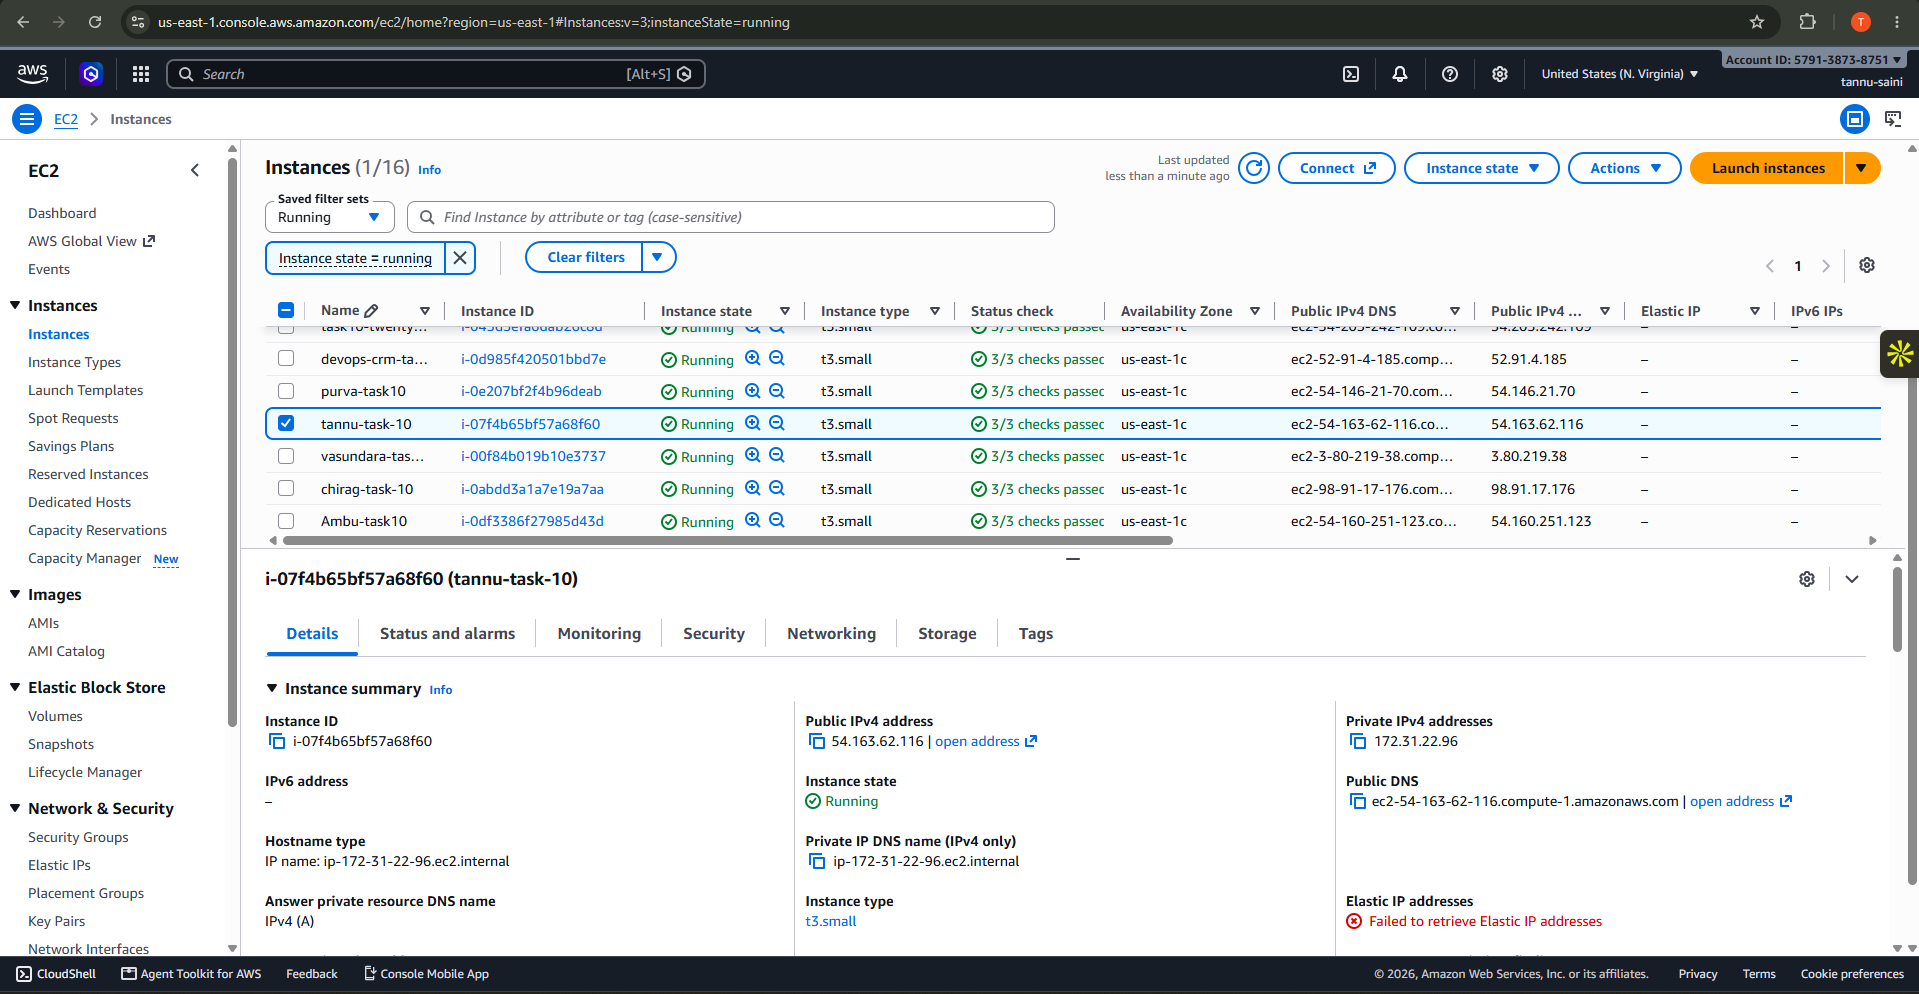
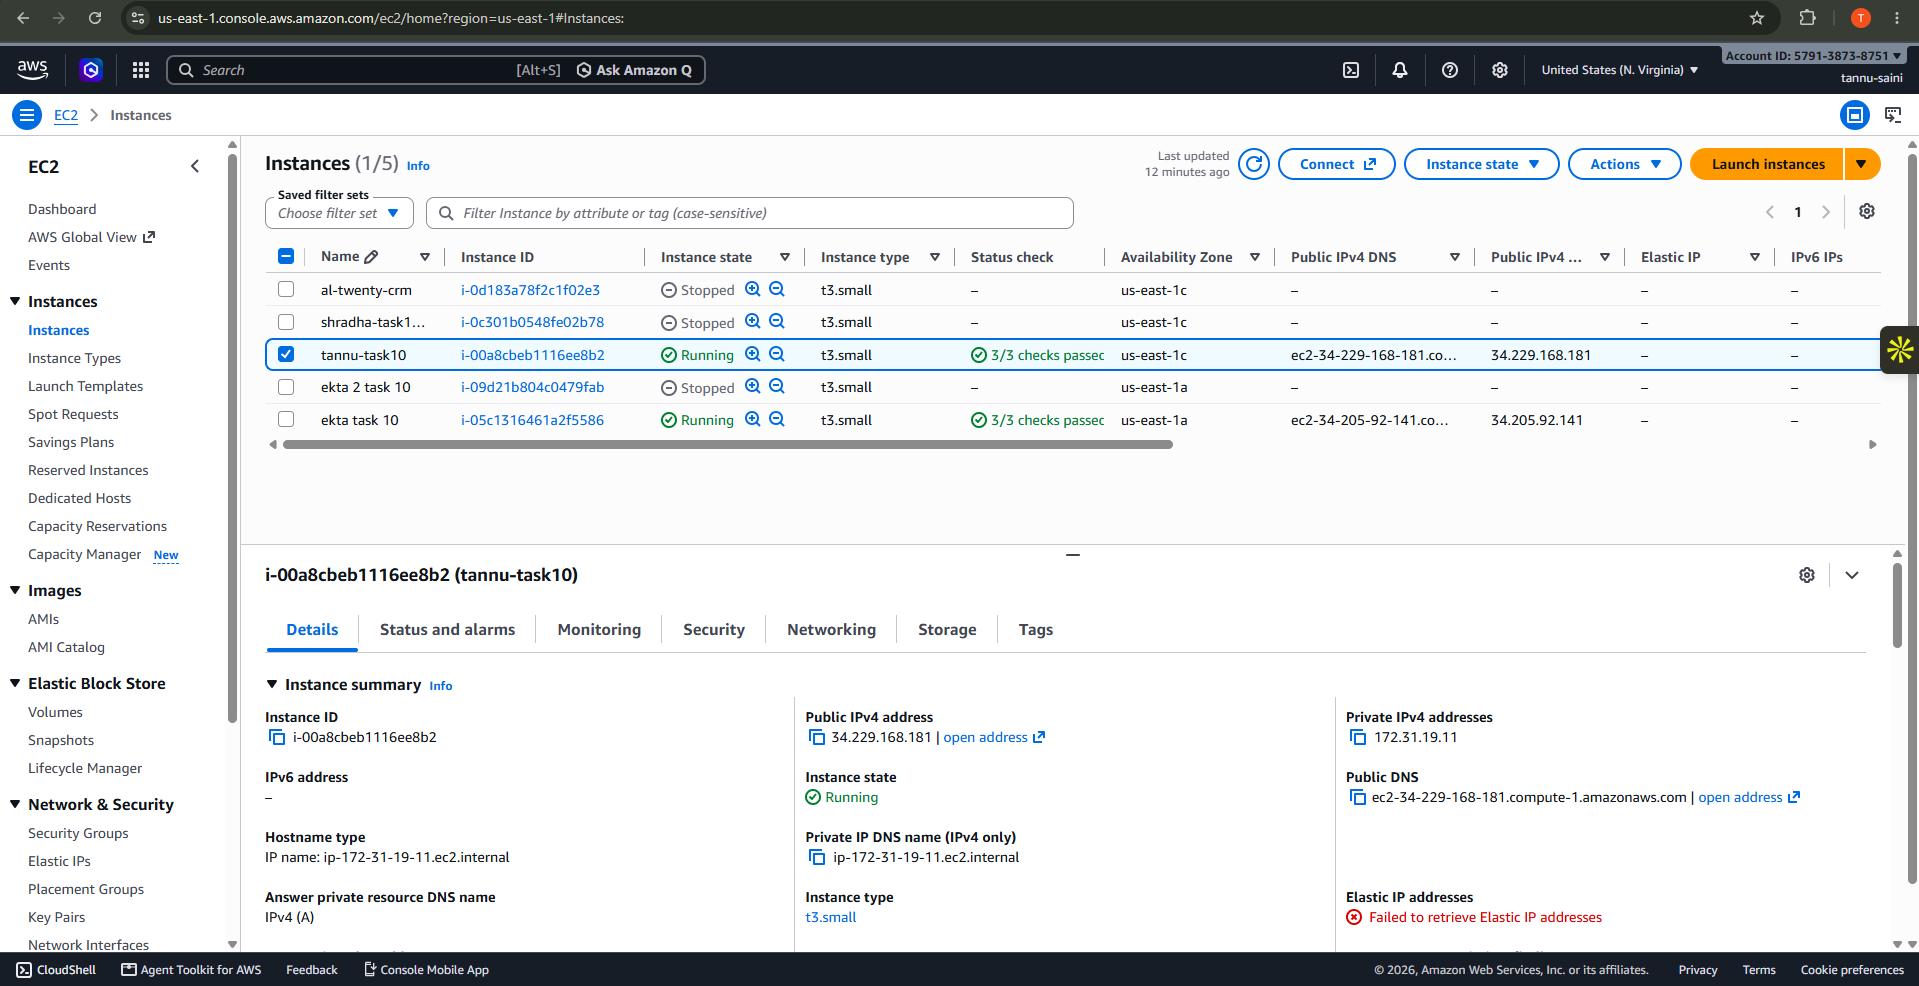
docs: complete Task 10 AWS observability

diff --git a/task-10-aws-observability.md b/task-10-aws-observability.md
@@ -4,62 +4,106 @@
 
 Implemented AWS observability for the Twenty CRM application running on an Amazon EC2 instance using Amazon CloudWatch.
 
+The setup includes EC2 monitoring, CloudWatch Agent configuration, CPU/memory/disk metrics, CloudWatch alarms, a personal dashboard, and live metric testing.
+
 ## 1. EC2 Instance Setup
 
-- Launched an Ubuntu EC2 instance in AWS.
-- Connected to the instance using SSH.
-- Instance type used: `t3.small`
-- AWS Region: `us-east-1 (N. Virginia)`
+* Launched an Ubuntu EC2 instance in AWS.
+* Instance type: `t3.small`
+* AWS Region: `us-east-1 (N. Virginia)`
+* Connected to the instance using SSH.
+* Instance ID: `i-00a8cbeb1116ee8b2`
+
+![EC2 instance running](screenshots/task-10-aws-observability/01-ec2-running.png)
+
+![SSH connection](screenshots/task-10-aws-observability/02-ssh-connected.png)
 
 ## 2. Twenty CRM Deployment
 
 Twenty CRM was deployed and run on the EC2 instance using Docker.
 
-The application was exposed on port `2020`.
+* Application port: `2020`
+* Docker was installed and configured.
+* Twenty CRM was successfully started and verified as healthy.
+* The application was accessed through the EC2 instance.
 
-The application was successfully started on the EC2 instance and verified locally using an HTTP 200 response.
+![Twenty CRM running](screenshots/task-10-aws-observability/03-twenty-crm-running.png)
 
-## 3. CloudWatch Agent
+## 3. CloudWatch Agent Installation and Configuration
 
-Installed and configured the Amazon CloudWatch Agent on the EC2 instance.
+The Amazon CloudWatch Agent was installed and configured on the EC2 instance.
 
-The agent was configured to collect:
+The agent was configured with:
 
-- CPU utilization
-- Memory utilization
-- Disk utilization
+* Metrics collection interval: 60 seconds
+* CPU monitoring
+* Memory monitoring
+* Disk monitoring
+* EC2 Instance ID as a metric dimension
 
-Metrics were configured with a 60-second collection interval.
+![CloudWatch Agent configuration](screenshots/task-10-aws-observability/04-cloudwatch-agent-file.png)
 
-## 4. CloudWatch Metrics Configuration
+![CloudWatch Agent running](screenshots/task-10-aws-observability/05-cloudwatch-agent-running.png)
 
-The CloudWatch Agent configuration included:
+## 4. CloudWatch Metrics
 
-- `cpu_usage_idle`
-- `cpu_usage_user`
-- `cpu_usage_system`
-- `cpu_usage_iowait`
-- `mem_used_percent`
-- Disk `used_percent`
+The CloudWatch Agent collects the following metrics:
 
-The disk metric was configured for the root filesystem `/`.
+### CPU
 
-## 5. CloudWatch Alarm
+* `cpu_usage_idle`
+* `cpu_usage_user`
+* `cpu_usage_system`
 
-Created the following CloudWatch alarm:
+### Memory
 
-`Tannu-Task10-CPU-High`
+* `mem_used_percent`
+
+### Disk
+
+* `used_percent`
+
+Disk monitoring was configured for the root filesystem `/`.
+
+The metrics were configured with a 60-second collection interval.
+
+## 5. CloudWatch Alarms
+
+Two CloudWatch alarms were created.
+
+### CPU Alarm
+
+Alarm name:
+
+`Tannu-Task10-High-CPU`
 
 Configuration:
 
-- Namespace: `AWS/EC2`
-- Metric: `CPUUtilization`
-- Statistic: Average
-- Period: 5 minutes
-- Threshold: CPU utilization greater than 70%
-- Evaluation: 1 datapoint within 5 minutes
+* Namespace: `AWS/EC2`
+* Metric: `CPUUtilization`
+* Statistic: Average
+* Period: 1 minute
+* Threshold: Greater than 70%
 
-The alarm was created without notification actions because the provided IAM user did not have permission to create/list SNS topics.
+![CloudWatch CPU alarm](screenshots/task-10-aws-observability/06-cloudwatch-high-cpu-alarm.png)
+
+### Memory Alarm
+
+Alarm name:
+
+`Tannu-Task10-High-Memory`
+
+Configuration:
+
+* Namespace: `CWAgent`
+* Metric: `mem_used_percent`
+* Statistic: Average
+* Period: 1 minute
+* Threshold: Greater than 80%
+
+![CloudWatch memory alarm](screenshots/task-10-aws-observability/07-cloudwatch-high-memory-alarm.png)
+
+The alarms were created without notification actions because SNS notification configuration was not required for this task.
 
 ## 6. CloudWatch Dashboard
 
@@ -67,59 +111,124 @@ Created a personal CloudWatch dashboard:
 
 `Tannu-Task10-Observability`
 
-A CPU utilization widget using the EC2 CPUUtilization metric was added and configured for the EC2 instance. After the instance was terminated, the dashboard no longer displayed live metric data.
+The dashboard contains three monitoring widgets:
 
-## 7. Testing
+* `CPUUtilization`
+* `mem_used_percent`
+* `disk_used_percent`
 
-The CloudWatch Agent was started successfully and its status showed:
+The widgets were configured for the EC2 instance and provide a single view of CPU, memory, and disk utilization.
 
-- Status: Running
-- Config status: Configured
+![CloudWatch dashboard](screenshots/task-10-aws-observability/08-cloudwatch-dashboard.png)
 
-The Twenty CRM container was also successfully started during the implementation.
+## 7. Live Metric Testing
 
-## 8. Issues Faced
+Live metric testing was performed after configuring the CloudWatch monitoring setup.
 
-### Redis connection issue
+Twenty CRM activity was generated on the running application.
 
-During Twenty CRM startup, Redis connection/session-store errors were observed.
+A temporary CPU load was also generated on the EC2 instance using two background `yes` processes:
 
-Redis was started and verified locally, after which the Twenty CRM application successfully started.
+```bash
+yes > /dev/null & P1=$!
+yes > /dev/null & P2=$!
+```
 
-### Disk space issue
+The CPU load was then stopped using:
 
-The EC2 instance had limited disk space and the root filesystem reached very high utilization.
+```bash
+kill $P1 $P2
+```
 
-The issue was handled by cleaning package cache, pruning unused Docker resources, and removing unnecessary local `node_modules`.
+This test was performed to generate CPU activity and verify that the CloudWatch CPU metric responds to changes in system activity.
 
-### Memory pressure
+The CloudWatch dashboard was refreshed after the test to verify updated metric data.
 
-Memory usage was high while running Twenty CRM.
+## 8. Issues Faced and Solutions
 
-A swap file was configured to provide additional virtual memory.
+### Disk Space Issue
 
-### EC2 termination
+The EC2 instance had limited disk space, which caused Docker and package installation issues.
 
-During the final verification stage, the EC2 instance became terminated.
+The issue was handled by:
 
-A replacement instance could not be launched because the provided IAM user had an explicit deny for:
+* Cleaning package cache
+* Removing unnecessary files
+* Pruning unused Docker resources
+* Removing unnecessary `node_modules`
+* Checking disk usage before continuing
 
-`ec2:RunInstances`
+### Memory Pressure
 
-Therefore, final live metric-change testing could not be completed.
+The `t3.small` instance had limited memory while running Twenty CRM and its supporting services.
 
-## 9. Final Status
+A 1 GB swap file was configured to provide additional virtual memory:
 
-The following components were successfully implemented:
+```bash
+sudo fallocate -l 1G /swapfile
+sudo chmod 600 /swapfile
+sudo mkswap /swapfile
+sudo swapon /swapfile
+```
 
-- EC2 setup
-- SSH connection
-- Twenty CRM deployment
-- CloudWatch Agent installation
-- CPU monitoring configuration
-- Memory monitoring configuration
-- Disk monitoring configuration
-- CloudWatch CPU alarm
-- Personal CloudWatch dashboard
+This helped the instance handle the application workload without changing the EC2 instance type.
 
-Final live CRM activity and metric-change verification could not be completed because the EC2 instance was terminated before final testing.
+### Redis Memory Overcommit
+
+Redis-related memory behavior was addressed by enabling memory overcommit:
+
+```bash
+sudo sysctl vm.overcommit_memory=1
+```
+
+The configuration was also persisted using:
+
+```bash
+echo 'vm.overcommit_memory = 1' | sudo tee /etc/sysctl.d/99-twenty.conf
+```
+
+### EC2 Permission Restrictions
+
+Attempts to modify the EC2 volume and instance attributes were blocked by the provided IAM permissions.
+
+The following actions were denied:
+
+* `ec2:ModifyVolume`
+* `ec2:ModifyInstanceAttribute`
+
+Therefore, the existing `t3.small` instance configuration was retained and the memory limitation was handled using swap.
+
+## 9. Verification
+
+The following components were successfully verified:
+
+* EC2 instance running
+* SSH connectivity
+* Docker running
+* Twenty CRM running successfully
+* CloudWatch Agent running
+* CPU metrics available
+* Memory metrics available
+* Disk metrics available
+* CPU alarm created
+* Memory alarm created
+* CloudWatch dashboard created
+* Live CPU activity test performed
+* Metric data refreshed after testing
+
+## 10. Final Status
+
+AWS observability for Twenty CRM was successfully implemented using Amazon CloudWatch.
+
+The final setup provides:
+
+* EC2 infrastructure monitoring
+* CPU monitoring
+* Memory monitoring
+* Disk monitoring
+* CPU alerting
+* Memory alerting
+* A personal CloudWatch dashboard
+* Live metric-change testing
+
+The monitoring setup is ready for ongoing observation and troubleshooting of the Twenty CRM application running on EC2.
